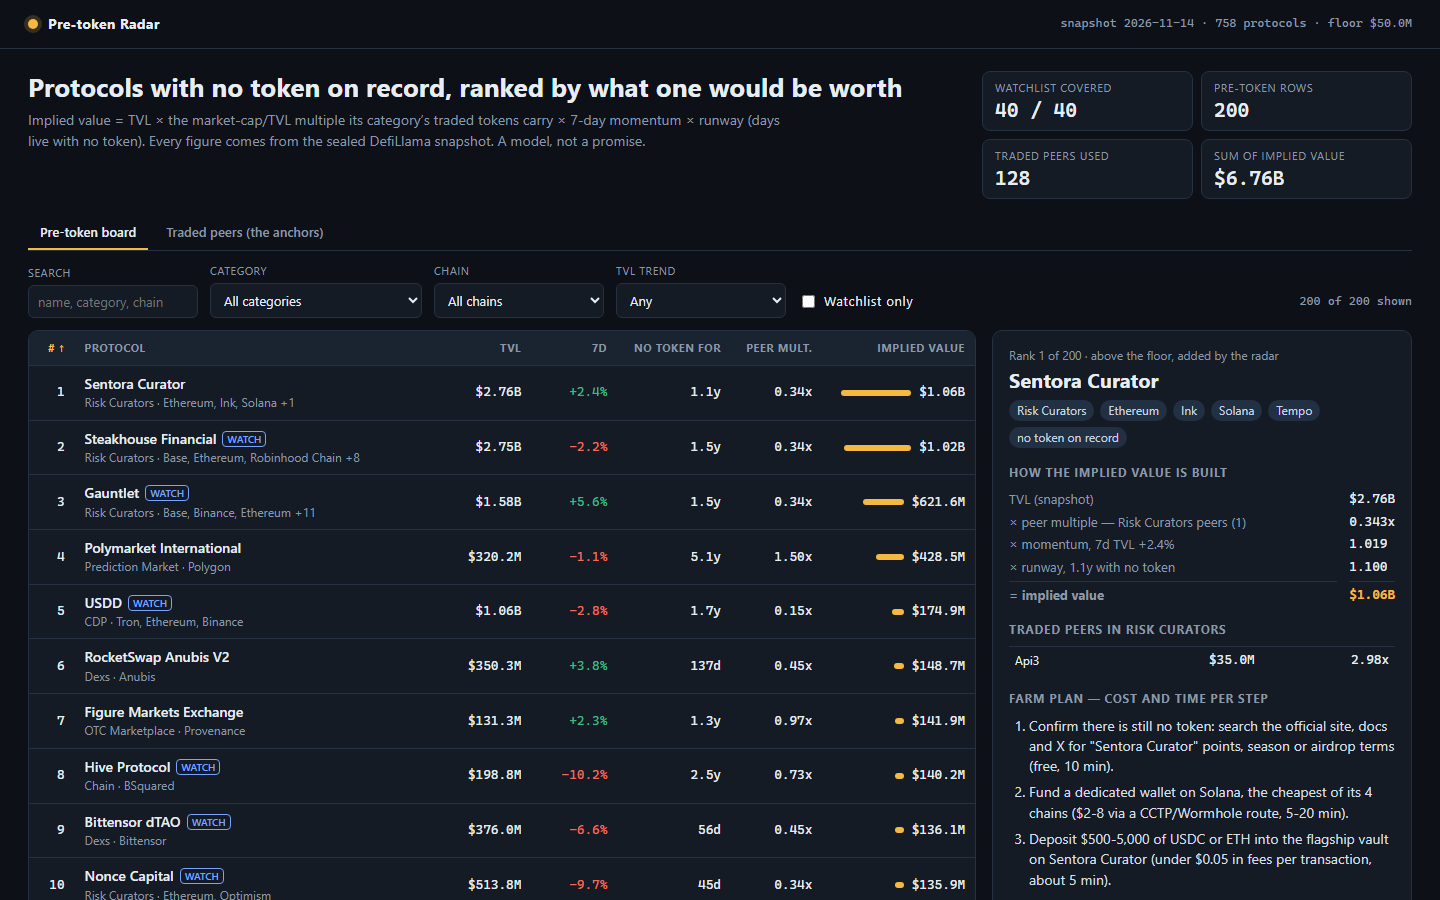
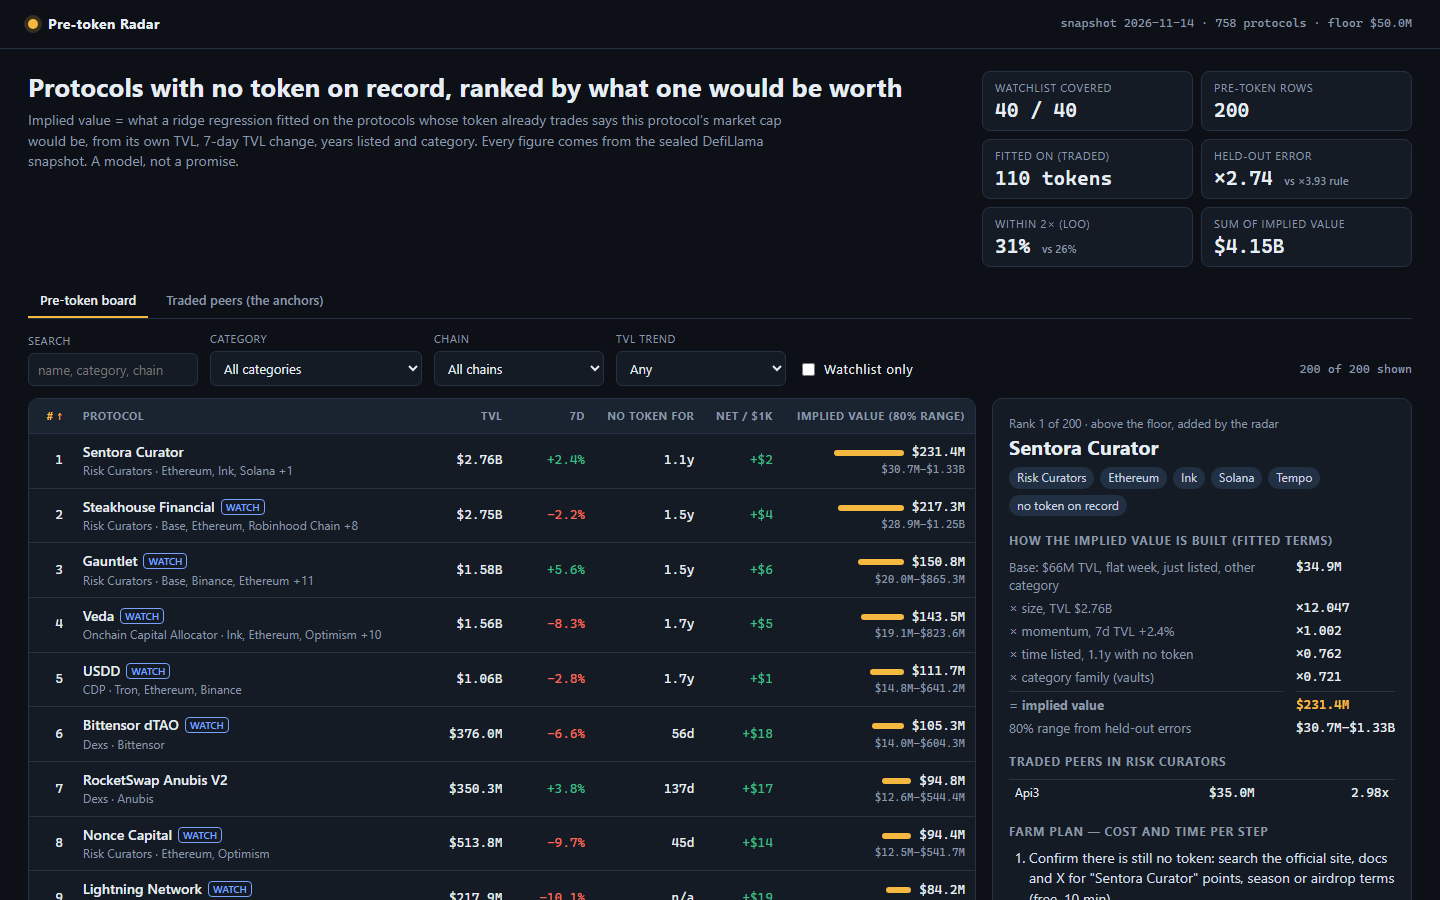
v2: ridge model fitted on traded peers with leave-one-out error, 80% ranges, net value per $1k, fitted-term breakdown

diff --git a/dashboard/model.js b/dashboard/model.js
@@ -86,6 +86,71 @@
     return clamp(m, 0.7, 1.1);
   }
 
+  // ---------------------------------------------------------------- fitted model (v2)
+  // ln(market cap) of the protocols whose token trades, regressed on the snapshot's own figures:
+  //   ln TVL, 7-day TVL change, ln(1 + years listed) and the category family.
+  // Ridge (lambda on every term but the intercept), solved exactly; leave-one-out errors come from
+  // the hat matrix, so every number on the page is out-of-sample for the protocol it describes.
+  var FAMS = ['credit', 'trading', 'vaults', 'rwa', 'staking', 'infra'];
+  var TERMS = ['intercept', 'ln TVL', '7d TVL change', 'years listed', 'credit', 'trading', 'vaults', 'rwa', 'staking', 'infra'];
+  var LAMBDA = 2;
+  var RATIO_TRIM = Math.log(50);   // a token worth >50x or <1/50 of its TVL is an outlier, not a peer
+
+  function features(p, asOf, medAge) {
+    var age = ageDays(asOf, p.listed_at); if (age === null) age = medAge;
+    var f = [1, Math.log(p.tvl_usd) - 18, clamp(p.change_7d === null ? 0 : p.change_7d, -30, 30) / 100, Math.log(1 + age / 365)];
+    FAMS.forEach(function (fm) { f.push(family(p.category) === fm ? 1 : 0); });
+    return f;
+  }
+  function solve(A, b) {             // Gaussian elimination with partial pivoting
+    var n = b.length, M = A.map(function (r, i) { return r.concat([b[i]]); });
+    for (var c = 0; c < n; c++) {
+      var piv = c; for (var r = c + 1; r < n; r++) if (Math.abs(M[r][c]) > Math.abs(M[piv][c])) piv = r;
+      var t = M[c]; M[c] = M[piv]; M[piv] = t;
+      for (r = 0; r < n; r++) if (r !== c) { var k = M[r][c] / M[c][c]; for (var j = c; j <= n; j++) M[r][j] -= k * M[c][j]; }
+    }
+    return M.map(function (r, i) { return r[n] / r[i]; });
+  }
+  function fitModel(protocols, asOf) {
+    var ages = protocols.map(function (p) { return ageDays(asOf, p.listed_at); }).filter(function (a) { return a !== null; });
+    var medAge = median(ages) || 365;
+    var train = protocols.filter(function (p) { return trades(p) && Math.abs(Math.log(p.mcap_usd / p.tvl_usd)) < RATIO_TRIM; });
+    var X = train.map(function (p) { return features(p, asOf, medAge); });
+    var y = train.map(function (p) { return Math.log(p.mcap_usd); });
+    var k = TERMS.length, A = [], b = [];
+    for (var i = 0; i < k; i++) {
+      A.push([]); b.push(0);
+      for (var j = 0; j < k; j++) { var s = 0; for (var r = 0; r < X.length; r++) s += X[r][i] * X[r][j]; A[i].push(s + (i === j && i > 0 ? LAMBDA : 0)); }
+      for (r = 0; r < X.length; r++) b[i] += X[r][i] * y[r];
+    }
+    var beta = solve(A, b);
+    var inv = TERMS.map(function (_, c) { return solve(A, TERMS.map(function (_, i) { return i === c ? 1 : 0; })); });
+    var loo = X.map(function (x, r) {
+      var h = 0; for (var i = 0; i < k; i++) for (var j = 0; j < k; j++) h += x[i] * inv[i][j] * x[j];
+      var pred = x.reduce(function (s, v, i) { return s + v * beta[i]; }, 0);
+      return (y[r] - pred) / (1 - h);
+    });
+    // the v1 rule (category median multiple), scored the same way: each protocol left out of its own peers
+    var base = train.map(function (p) {
+      var others = protocols.filter(function (q) { return q !== p; });
+      return Math.log(p.mcap_usd) - Math.log(p.tvl_usd * multipleFor(p.category, peerMultiples(others)).ratio);
+    });
+    var abs = function (a) { return a.map(Math.abs); };
+    var sorted = loo.slice().sort(function (a, c) { return a - c; });
+    return {
+      beta: beta, medAge: medAge, n: train.length, terms: TERMS,
+      loo_median_x: Math.exp(median(abs(loo))), base_median_x: Math.exp(median(abs(base))),
+      within2x: loo.filter(function (e) { return Math.abs(e) < Math.LN2; }).length / loo.length,
+      base_within2x: base.filter(function (e) { return Math.abs(e) < Math.LN2; }).length / base.length,
+      band: [sorted[Math.floor(0.1 * sorted.length)], sorted[Math.floor(0.9 * sorted.length)]]
+    };
+  }
+  function predict(p, asOf, fit) {
+    var x = features(p, asOf, fit.medAge);
+    var parts = x.map(function (v, i) { return v * fit.beta[i]; });
+    return { ln: parts.reduce(function (s, v) { return s + v; }, 0), parts: parts };
+  }
+
   /** A pre-token row whose name starts with the first word of a protocol whose token trades may be a
    *  product of that token's protocol; its value is halved and the parent named. */
   function parentIndex(protocols) {
@@ -102,15 +167,20 @@
     return idx[w] && idx[w] !== p.name ? idx[w] : null;
   }
 
-  function value(p, asOf, peers, parents) {
-    var mult = multipleFor(p.category, peers), age = ageDays(asOf, p.listed_at);
-    var mo = momentum(p.change_7d), ru = runway(age), parent = parents ? parentOf(p, parents) : null;
-    var lineage = parent ? 0.5 : 1;
+  function value(p, asOf, fit, parents) {
+    var age = ageDays(asOf, p.listed_at), parent = parents ? parentOf(p, parents) : null;
+    var lineage = parent ? 0.5 : 1, pr = predict(p, asOf, fit);
+    var implied = Math.max(1, Math.round(Math.exp(pr.ln) * lineage));
     return {
-      implied: Math.max(1, Math.round(p.tvl_usd * mult.ratio * mo * ru * lineage)),
-      multiple: mult.ratio, multiple_source: mult.source, momentum: mo, runway: ru, age_days: age,
-      lineage: lineage, parent: parent
+      implied: implied, low: Math.round(implied * Math.exp(fit.band[0])), high: Math.round(implied * Math.exp(fit.band[1])),
+      multiple: implied / p.tvl_usd, parts: pr.parts, age_days: age, lineage: lineage, parent: parent
     };
+  }
+
+  /** Expected airdrop value per $1,000 deposited, if `share` of an implied-value token went to
+   *  depositors pro rata to TVL (an assumption shown on the page), net of the plan's gas estimate. */
+  function netPer1k(implied, tvl, gasUsd, share) {
+    return Math.round(implied * share * 1000 / tvl - gasUsd);
   }
 
   // ---------------------------------------------------------------- farm planner
@@ -122,6 +192,15 @@
     if (chain === 'Bitcoin') return { cost: '$1-10 in BTC fees', bridge: 'native BTC, 10-60 min to confirm' };
     return { cost: 'under $1 gas', bridge: '$2-10 to bridge in, 5-30 min' };
   }
+  /** Round-trip cost in USD of the plan's transactions (fund/bridge in, two actions, withdraw). */
+  function gasCost(chain) {
+    if (chain === 'Ethereum') return 40;
+    if (L2[chain]) return 4;
+    if (chain === 'Solana' || chain === 'Sui' || chain === 'Aptos') return 6;
+    if (chain === 'Bitcoin') return 20;
+    return 10;
+  }
+  var AIRDROP_SHARE = 0.10;  // assumed share of a launch that goes to depositors (typical range 5-15%)
   function cheapest(chains) {
     var order = ['Base', 'Arbitrum', 'Solana', 'Optimism', 'Hyperliquid L1', 'Binance', 'Ethereum'];
     for (var i = 0; i < order.length; i++) if (chains.indexOf(order[i]) >= 0) return order[i];
@@ -151,6 +230,9 @@
     else if (p.change_7d !== null && p.change_7d < -5) steps.push('TVL fell ' + Math.abs(p.change_7d).toFixed(1) + '% in 7 days: start with half the planned size and add only if deposits recover (saves about half the exposure).');
     if (v.age_days !== null && v.age_days > 540) steps.push('It has run ' + Math.round(v.age_days / 30) + ' months with no token: treat a token as uncertain, so cap capital to what you would hold for the yield alone.');
     else if (v.age_days !== null && v.age_days < 120) steps.push('Listed ' + v.age_days + ' days ago: early users are often weighted most, so build history now and keep it running for 60-90 days.');
+    var gross = v.implied * AIRDROP_SHARE * 1000 / p.tvl_usd, cost = gasCost(chain);
+    steps.push('Expected value: if ' + Math.round(AIRDROP_SHARE * 100) + '% of the implied ' + fmtUsd(v.implied) + ' went to depositors pro rata, each $1,000 kept in earns about $' + gross.toFixed(gross < 10 ? 1 : 0) +
+      ' against ~$' + cost + ' of fees for the whole plan: ' + (gross > cost ? 'worth it from about $' + Math.ceil(cost / gross * 1000) + ' deposited.' : 'fees exceed the expected drop at $1,000; only worth it with a larger deposit or for the yield itself.'));
     steps.push('Track it: note deposit date, size and tx hashes in a sheet, and re-check the dashboard and points page every 2 weeks (5 min each).');
     steps.push('Exit rule: withdraw if TVL drops below ' + fmtUsd(p.tvl_usd * 0.6) + ' (40% below today) or if an audit or exploit warning appears (one withdrawal, ' + g.cost + ').');
     return steps;
@@ -166,9 +248,10 @@
   /** Watchlist first, then the strongest pre-token protocols below the floor; ranked by implied value. */
   function buildBoard(snapshot) {
     var peers = peerMultiples(snapshot.protocols), parents = parentIndex(snapshot.protocols), watch = {};
+    var fit = fitModel(snapshot.protocols, snapshot.as_of);
     snapshot.watchlist.forEach(function (s) { watch[s] = 1; });
     var scored = snapshot.protocols.filter(isPreToken).map(function (p) {
-      var v = value(p, snapshot.as_of, peers, parents);
+      var v = value(p, snapshot.as_of, fit, parents);
       return { p: p, v: v, watch: !!watch[p.slug] };
     });
     var early = scored.filter(function (r) {
@@ -180,19 +263,26 @@
       return {
         rank: i + 1, slug: r.p.slug, name: r.p.name, category: r.p.category, chains: r.p.chains,
         tvl_usd: r.p.tvl_usd, change_7d: r.p.change_7d, listed_at: r.p.listed_at, watchlist: r.watch,
-        implied_value_usd: r.v.implied, multiple: +r.v.multiple.toFixed(4), multiple_source: r.v.multiple_source,
-        momentum: +r.v.momentum.toFixed(4), runway: +r.v.runway.toFixed(4), age_days: r.v.age_days,
+        implied_value_usd: r.v.implied, implied_low_usd: r.v.low, implied_high_usd: r.v.high,
+        multiple: +r.v.multiple.toFixed(4), parts: r.v.parts.map(function (x) { return +x.toFixed(4); }), age_days: r.v.age_days,
         lineage: r.v.lineage, parent: r.v.parent,
+        net_per_1k_usd: netPer1k(r.v.implied, r.p.tvl_usd, gasCost(cheapest(r.p.chains)), AIRDROP_SHARE),
         farm_steps: farmPlan(r.p, r.v)
       };
     });
     var live = snapshot.protocols.filter(trades).sort(function (a, b) { return b.mcap_usd - a.mcap_usd; }).slice(0, 40).map(function (p) {
       return { slug: p.slug, name: p.name, category: p.category, symbol: p.symbol, tvl_usd: p.tvl_usd, mcap_usd: p.mcap_usd, ratio: +(p.mcap_usd / p.tvl_usd).toFixed(3) };
     });
-    return { board: board, live: live, peers: peers };
+    var model = {
+      terms: fit.terms, beta: fit.beta.map(function (b) { return +b.toFixed(4); }), n: fit.n, lambda: LAMBDA,
+      loo_median_x: +fit.loo_median_x.toFixed(3), base_median_x: +fit.base_median_x.toFixed(3),
+      within2x: +fit.within2x.toFixed(3), base_within2x: +fit.base_within2x.toFixed(3),
+      band: fit.band.map(function (b) { return +Math.exp(b).toFixed(3); }), airdrop_share: AIRDROP_SHARE
+    };
+    return { board: board, live: live, peers: peers, model: model };
   }
 
-  var api = { buildBoard: buildBoard, value: value, peerMultiples: peerMultiples, momentum: momentum, runway: runway, farmPlan: farmPlan, fmtUsd: fmtUsd, family: family };
+  var api = { buildBoard: buildBoard, value: value, fitModel: fitModel, predict: predict, peerMultiples: peerMultiples, farmPlan: farmPlan, netPer1k: netPer1k, fmtUsd: fmtUsd, family: family };
   if (typeof module !== 'undefined' && module.exports) module.exports = api;
   else root.RadarModel = api;
 })(this);

diff --git a/dashboard/app.js b/dashboard/app.js
@@ -30,9 +30,11 @@
     var total = R.rows.reduce(function (s, r) { return s + r.implied_value_usd; }, 0);
     var covered = R.rows.filter(function (r) { return r.watchlist; }).length;
     $('meta').textContent = 'snapshot ' + R.as_of + ' · ' + R.protocols + ' protocols · floor ' + usd(R.floor_usd);
+    var md = R.model;
     $('kpis').innerHTML = [
       ['Watchlist covered', covered + ' / ' + R.watchlist], ['Pre-token rows', R.rows.length],
-      ['Traded peers used', R.traded], ['Sum of implied value', usd(total)]
+      ['Fitted on (traded)', md.n + ' tokens'], ['Held-out error', '×' + md.loo_median_x.toFixed(2) + ' <small>vs ×' + md.base_median_x.toFixed(2) + ' rule</small>'],
+      ['Within 2× (LOO)', Math.round(md.within2x * 100) + '% <small>vs ' + Math.round(md.base_within2x * 100) + '%</small>'], ['Sum of implied value', usd(total)]
     ].map(function (k) { return '<div><dt>' + k[0] + '</dt><dd>' + k[1] + '</dd></div>'; }).join('');
     var cats = {}, chains = {};
     R.rows.forEach(function (r) { cats[r.category] = (cats[r.category] || 0) + 1; r.chains.forEach(function (c) { chains[c] = (chains[c] || 0) + 1; }); });
@@ -45,7 +47,7 @@
   }
 
   var COLS = {
-    board: [['rank', '#', 'num'], ['name', 'Protocol', ''], ['tvl_usd', 'TVL', 'num'], ['change_7d', '7d', 'num'], ['age_days', 'No token for', 'num'], ['multiple', 'Peer mult.', 'num'], ['implied_value_usd', 'Implied value', 'num']],
+    board: [['rank', '#', 'num'], ['name', 'Protocol', ''], ['tvl_usd', 'TVL', 'num'], ['change_7d', '7d', 'num'], ['age_days', 'No token for', 'num'], ['net_per_1k_usd', 'Net / $1k', 'num'], ['implied_value_usd', 'Implied value (80% range)', 'num']],
     peers: [['name', 'Protocol (token trades)', ''], ['category', 'Category', ''], ['tvl_usd', 'TVL', 'num'], ['mcap_usd', 'Market cap', 'num'], ['ratio', 'Mcap / TVL', 'num']]
   };
 
@@ -80,27 +82,39 @@
       }
       return '<tr data-slug="' + esc(r.slug) + '"' + (r.slug === state.p ? ' class="sel"' : '') + '><td class="num">' + r.rank + '</td>' +
         '<td><span class="name">' + esc(r.name) + '</span>' + (r.watchlist ? '<span class="w">WATCH</span>' : '') + (r.parent ? '<span class="lin" title="' + esc(r.parent) + ' already trades">PARENT TRADES</span>' : '') + '<div class="sub">' + esc(r.category) + ' · ' + esc(r.chains.slice(0, 3).join(', ')) + (r.chains.length > 3 ? ' +' + (r.chains.length - 3) : '') + '</div></td>' +
-        '<td class="num">' + usd(r.tvl_usd) + '</td><td class="num">' + pct(r.change_7d) + '</td><td class="num">' + age(r.age_days) + '</td><td class="num">' + r.multiple.toFixed(2) + 'x</td>' +
-        '<td class="num"><div class="bar"><i style="width:' + Math.max(2, Math.round(70 * r.implied_value_usd / max)) + 'px"></i>' + usd(r.implied_value_usd) + '</div></td></tr>';
+        '<td class="num">' + usd(r.tvl_usd) + '</td><td class="num">' + pct(r.change_7d) + '</td><td class="num">' + age(r.age_days) + '</td>' +
+        '<td class="num ' + (r.net_per_1k_usd > 0 ? 'up' : 'down') + '">' + (r.net_per_1k_usd > 0 ? '+$' : '−$') + Math.abs(r.net_per_1k_usd) + '</td>' +
+        '<td class="num"><div class="bar"><i style="width:' + Math.max(2, Math.round(70 * r.implied_value_usd / max)) + 'px"></i>' + usd(r.implied_value_usd) + '</div><div class="sub">' + usd(r.implied_low_usd) + '–' + usd(r.implied_high_usd) + '</div></td></tr>';
     }).join('') : '<tr><td colspan="7" class="empty">No protocol matches these filters.</td></tr>';
   }
 
   function detail() {
     var el = $('detail');
-    if (state.tab === 'peers') { el.innerHTML = '<h3>Why peers matter</h3><p class="sub">Each pre-token protocol is valued at the median market-cap/TVL multiple of traded tokens in its category, shrunk toward its family when the category has few tokens. ' + R.categories.length + ' categories carry at least one traded peer.</p>'; return; }
+    if (state.tab === 'peers') {
+      var md = R.model;
+      el.innerHTML = '<h3>The fitted model</h3><p class="sub">ln(market cap) of ' + md.n + ' traded protocols (tokens worth over 50× or under 1/50 of their TVL left out as outliers), ridge λ=' + md.lambda + '. Coefficients:</p>' +
+        '<table class="peers">' + md.terms.map(function (t, i) { return '<tr><td>' + esc(t) + '</td><td class="num">' + md.beta[i].toFixed(3) + '</td></tr>'; }).join('') + '</table>' +
+        '<h3>Tested held-out</h3><p class="sub">Each traded protocol predicted with itself left out (leave-one-out): typical miss ×' + md.loo_median_x.toFixed(2) + ', ' + Math.round(md.within2x * 100) + '% within 2×. The v1 rule (category median multiple) scored the same way: ×' + md.base_median_x.toFixed(2) + ', ' + Math.round(md.base_within2x * 100) + '% within 2×. 80% of held-out errors fall within ×' + md.band[0] + ' to ×' + md.band[1] + ', the range shown on every row.</p>' +
+        '<h3>Net / $1k</h3><p class="sub">Assumes ' + Math.round(md.airdrop_share * 100) + '% of a launch at the implied value goes to depositors pro rata to TVL, minus the plan\'s fees on the cheapest chain. An assumption, not a forecast of any airdrop.</p>';
+      return;
+    }
     var r = R.rows.filter(function (x) { return x.slug === state.p; })[0] || rowsFor()[0] || R.rows[0];
-    var check = Math.round(r.tvl_usd * r.multiple * r.momentum * r.runway * r.lineage);
+    var P = r.parts, fam = P.slice(4).reduce(function (s, v) { return s + v; }, 0);
+    var check = Math.round(Math.exp(P.reduce(function (s, v) { return s + v; }, 0)) * r.lineage);
+    var f = function (x) { return '×' + Math.exp(x).toFixed(3); };
     var peers = R.live.filter(function (p) { return p.category === r.category; }).slice(0, 5);
     var where = r.watchlist ? ' · on the watchlist' : r.tvl_usd >= R.floor_usd ? ' · above the floor, added by the radar' : ' · below the floor, early';
     el.innerHTML = '<div class="sub">Rank ' + r.rank + ' of ' + R.rows.length + where + '</div>' +
       '<h2>' + esc(r.name) + '</h2><div class="chips"><span class="chip">' + esc(r.category) + '</span>' + r.chains.slice(0, 6).map(function (c) { return '<span class="chip">' + esc(c) + '</span>'; }).join('') + '<span class="chip">no token on record</span></div>' +
-      '<h3>How the implied value is built</h3><div class="wf">' +
-      '<span>TVL (snapshot)</span><span>' + usd(r.tvl_usd) + '</span>' +
-      '<span>× peer multiple — ' + esc(r.multiple_source) + '</span><span>' + r.multiple.toFixed(3) + 'x</span>' +
-      '<span>× momentum, 7d TVL ' + (r.change_7d === null ? 'n/a' : (r.change_7d >= 0 ? '+' : '') + r.change_7d.toFixed(1) + '%') + '</span><span>' + r.momentum.toFixed(3) + '</span>' +
-      '<span>× runway, ' + age(r.age_days) + ' with no token</span><span>' + r.runway.toFixed(3) + '</span>' +
-      (r.parent ? '<span>× lineage: ' + esc(r.parent) + ' already trades</span><span>' + r.lineage.toFixed(3) + '</span>' : '') +
-      '<span class="total">= implied value</span><span class="total">' + usd(check) + '</span></div>' +
+      '<h3>How the implied value is built (fitted terms)</h3><div class="wf">' +
+      '<span>Base: $66M TVL, flat week, just listed, other category</span><span>' + usd(Math.exp(P[0])) + '</span>' +
+      '<span>× size, TVL ' + usd(r.tvl_usd) + '</span><span>' + f(P[1]) + '</span>' +
+      '<span>× momentum, 7d TVL ' + (r.change_7d === null ? 'n/a' : (r.change_7d >= 0 ? '+' : '') + r.change_7d.toFixed(1) + '%') + '</span><span>' + f(P[2]) + '</span>' +
+      '<span>× time listed, ' + age(r.age_days) + ' with no token</span><span>' + f(P[3]) + '</span>' +
+      '<span>× category family (' + esc(M.family(r.category)) + ')</span><span>' + f(fam) + '</span>' +
+      (r.parent ? '<span>× lineage: ' + esc(r.parent) + ' already trades</span><span>×' + r.lineage.toFixed(3) + '</span>' : '') +
+      '<span class="total">= implied value</span><span class="total">' + usd(check) + '</span>' +
+      '<span>80% range from held-out errors</span><span>' + usd(r.implied_low_usd) + '–' + usd(r.implied_high_usd) + '</span></div>' +
       (peers.length ? '<h3>Traded peers in ' + esc(r.category) + '</h3><table class="peers">' + peers.map(function (p) { return '<tr><td>' + esc(p.name) + '</td><td class="num">' + usd(p.mcap_usd) + '</td><td class="num">' + p.ratio.toFixed(2) + 'x</td></tr>'; }).join('') + '</table>' : '') +
       '<h3>Farm plan — cost and time per step</h3><ol class="steps">' + r.farm_steps.map(function (s) { return '<li>' + esc(s) + '</li>'; }).join('') + '</ol>';
   }

diff --git a/main.ts b/main.ts
@@ -34,7 +34,7 @@ const out = arg('output', process.env.MAKEFUN_OUTPUT_DIR ?? '/output');
 const snapshot = JSON.parse(readFileSync(inputFile, 'utf8'));
 if (!Array.isArray(snapshot.protocols) || !Array.isArray(snapshot.watchlist)) fail('snapshot has no protocols or watchlist');
 
-const { board, live, peers } = model.buildBoard(snapshot);
+const { board, live, peers, model: fitted } = model.buildBoard(snapshot);
 
 // The gate's own shape, checked before anything is written.
 const slugs = new Set(snapshot.protocols.map((p: { slug: string }) => p.slug));
@@ -52,7 +52,7 @@ const missing = snapshot.watchlist.filter((s: string) => !onBoard.has(s));
 if (missing.length) fail(`watchlist not covered: ${missing.join(', ')}`);
 
 mkdirSync(out, { recursive: true });
-writeFileSync(join(out, 'board.json'), `${JSON.stringify({ as_of: snapshot.as_of, model: 'peer-multiple x momentum x runway', rows: board })}\n`);
+writeFileSync(join(out, 'board.json'), `${JSON.stringify({ as_of: snapshot.as_of, model: { kind: 'ridge on ln(market cap) of traded peers', ...fitted }, rows: board })}\n`);
 
 const categories = Object.entries(peers.cat as Record<string, { log: number; n: number }>)
   .map(([category, c]) => ({ category, n: c.n, multiple: +Math.exp(c.log).toFixed(4) }))
@@ -60,7 +60,7 @@ const categories = Object.entries(peers.cat as Record<string, { log: number; n: 
 const data = {
   as_of: snapshot.as_of, source: snapshot.source, floor_usd: snapshot.floor_usd,
   protocols: snapshot.protocols.length, watchlist: snapshot.watchlist.length,
-  traded: peers.peers, categories, rows: board, live,
+  traded: peers.peers, categories, model: fitted, rows: board, live,
 };
 writeFileSync(join(out, 'data.js'), `window.RADAR = ${JSON.stringify(data)};\n`);
 

diff --git a/dashboard/app.css b/dashboard/app.css
@@ -18,6 +18,8 @@ h1 { font-size: 26px; line-height: 1.2; margin: 0 0 8px; }
 .kpis div { background: var(--panel); border: 1px solid var(--line); border-radius: 8px; padding: 8px 12px; }
 .kpis dt { color: var(--mute); font-size: 11px; text-transform: uppercase; letter-spacing: .06em; }
 .kpis dd { margin: 2px 0 0; font: 600 20px var(--mono); }
+.kpis dd small { font: 500 11px var(--sans); color: var(--mute); }
+td.num .sub { font-family: var(--mono); font-size: 11px; }
 .tabs { display: flex; gap: 6px; border-bottom: 1px solid var(--line); margin-bottom: 12px; }
 .tabs button { background: none; border: 0; color: var(--mute); padding: 8px 12px; font: 600 13px var(--sans); cursor: pointer; border-bottom: 2px solid transparent; }
 .tabs button.on { color: var(--ink); border-bottom-color: var(--accent); }

diff --git a/dashboard/index.html b/dashboard/index.html
@@ -15,7 +15,7 @@
   <section class="hero">
     <div>
       <h1 id="headline">Protocols with no token on record, ranked by what one would be worth</h1>
-      <p class="lede">Implied value = TVL &times; the market-cap/TVL multiple its category&rsquo;s traded tokens carry &times; 7-day momentum &times; runway (days live with no token). Every figure comes from the sealed DefiLlama snapshot. A model, not a promise.</p>
+      <p class="lede" id="lede">Implied value = what a ridge regression fitted on the protocols whose token already trades says this protocol&rsquo;s market cap would be, from its own TVL, 7-day TVL change, years listed and category. Every figure comes from the sealed DefiLlama snapshot. A model, not a promise.</p>
     </div>
     <dl class="kpis" id="kpis"></dl>
   </section>
